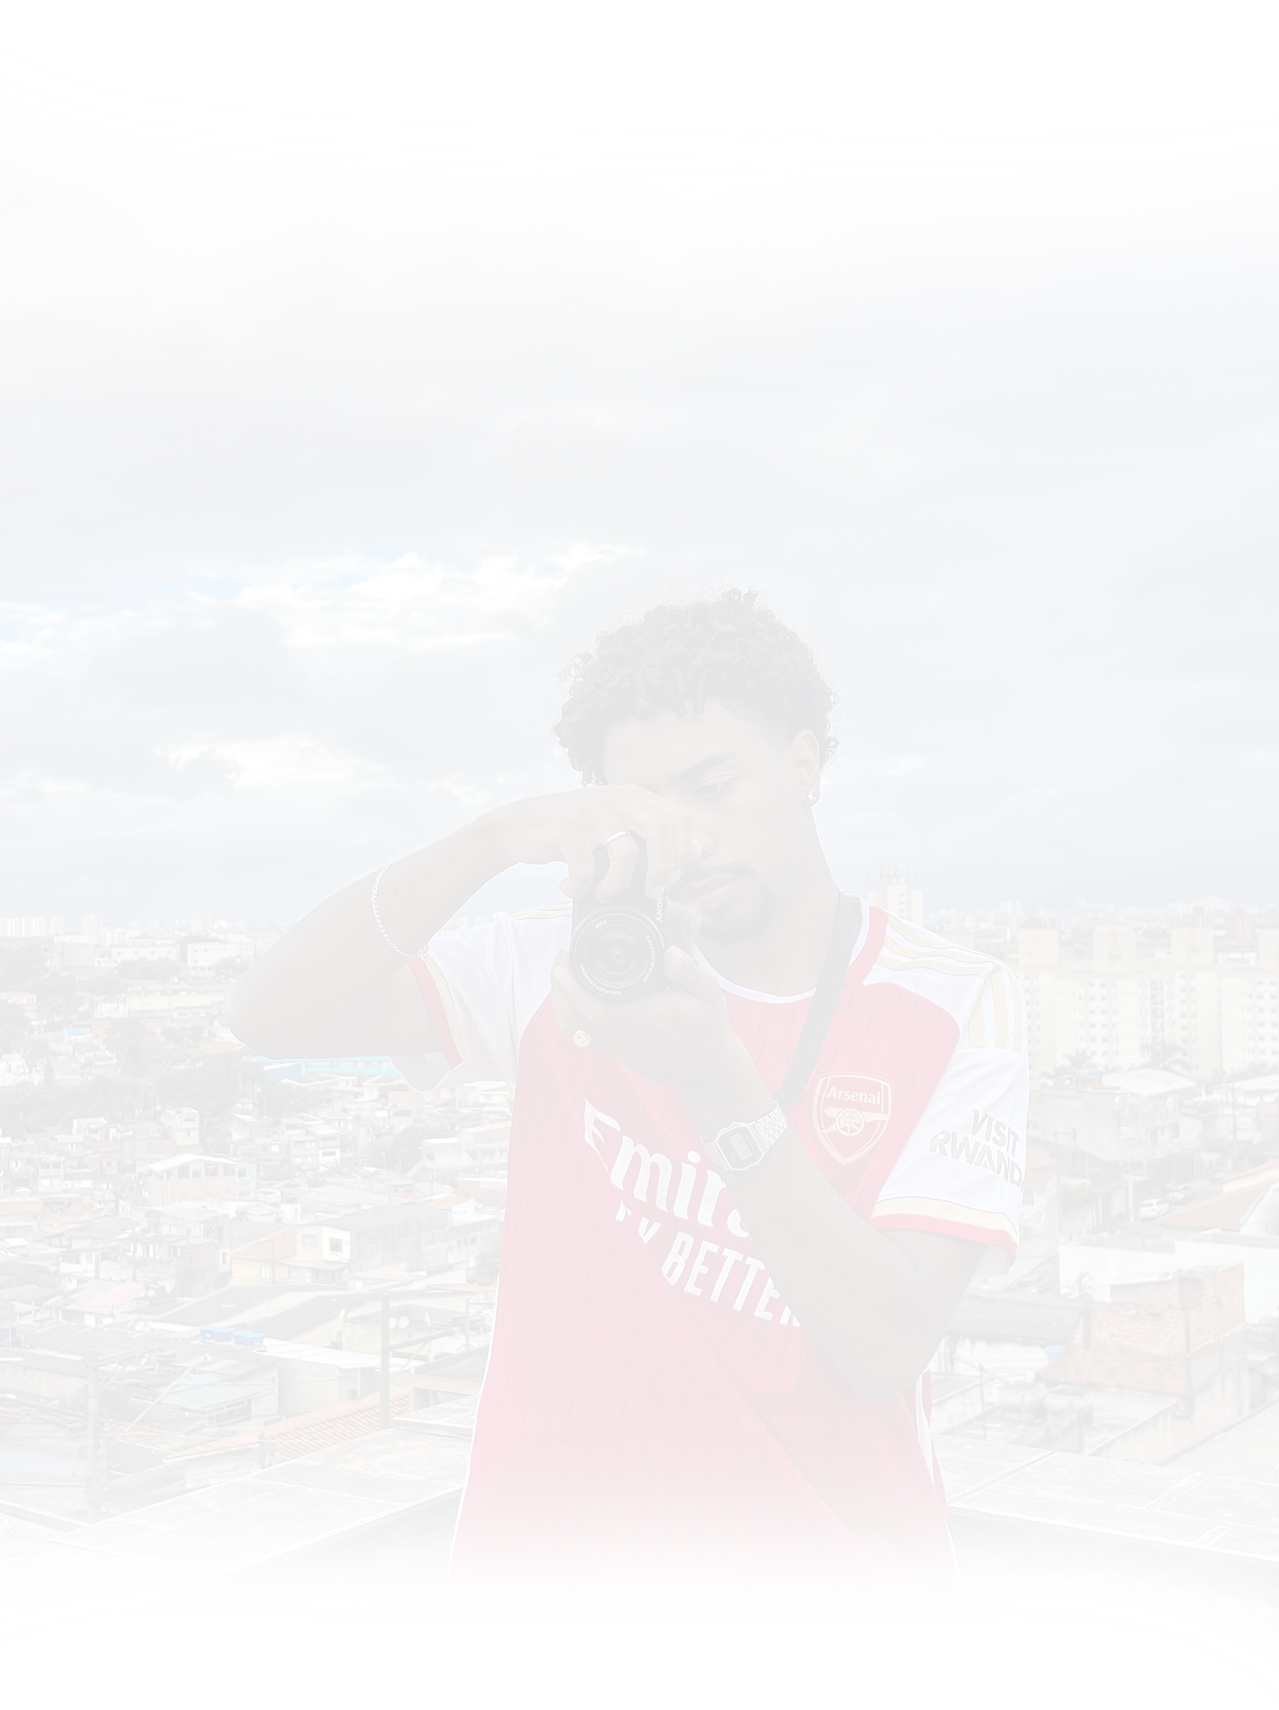
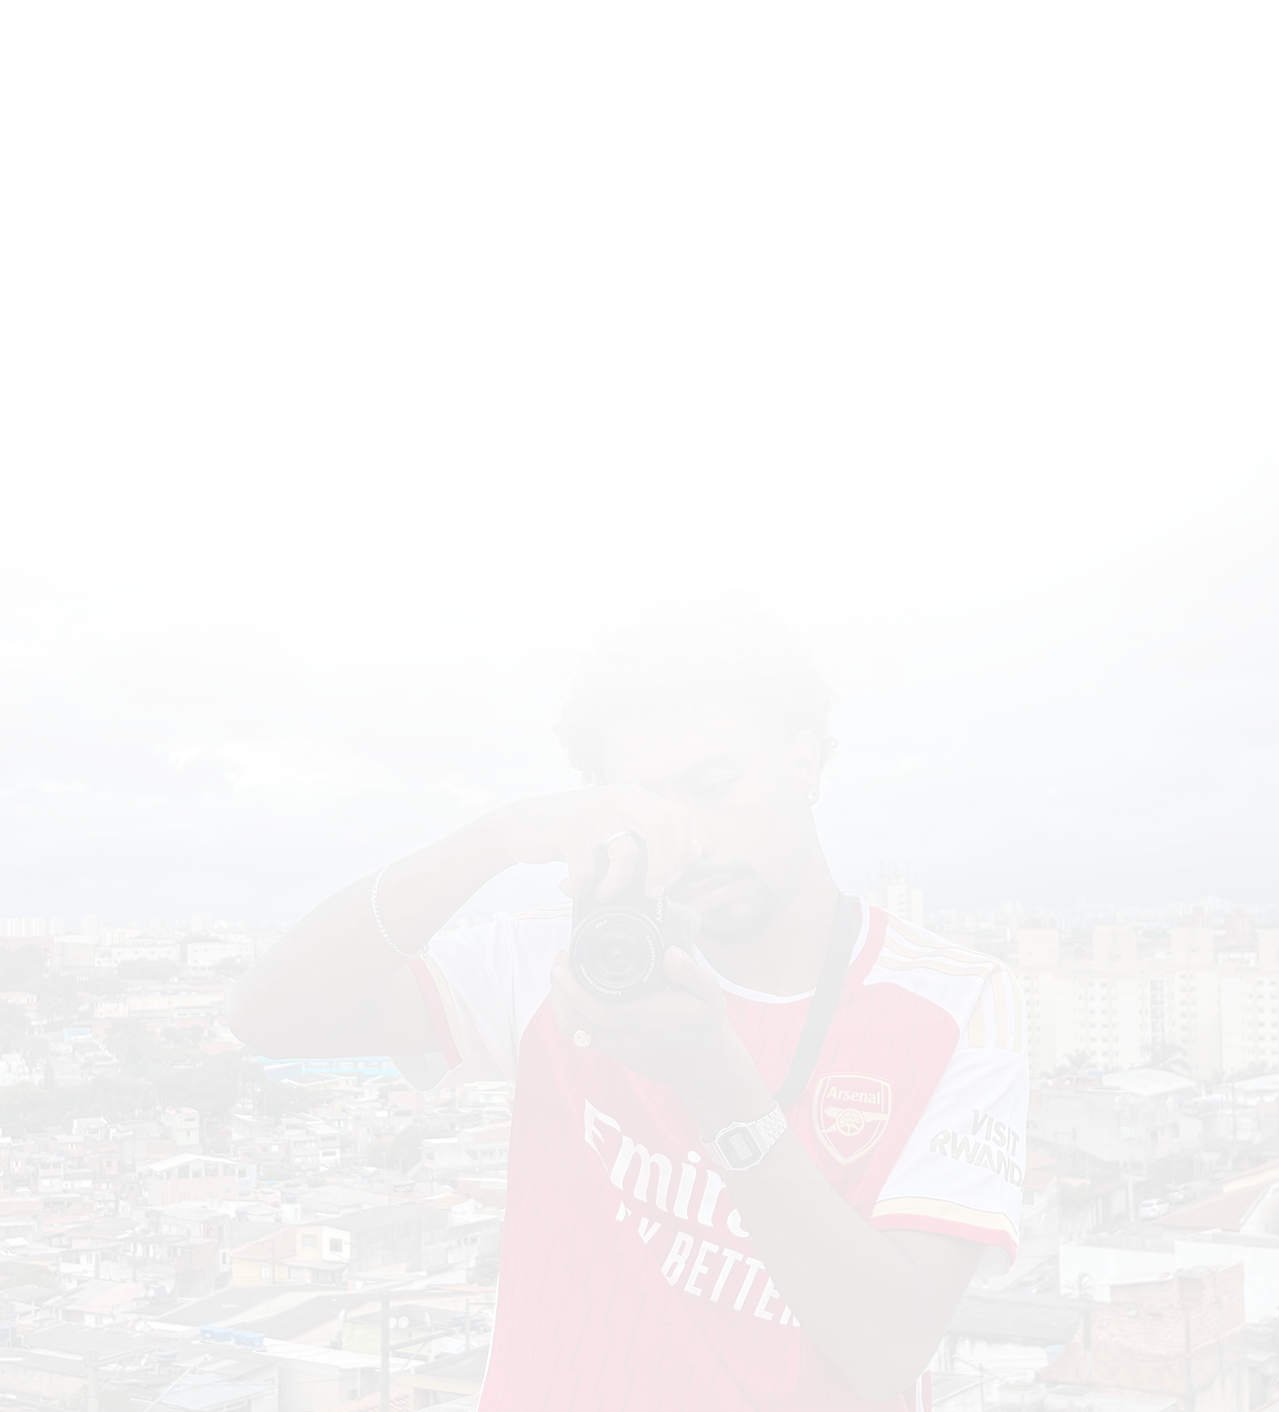
fix: change images

Changed region(s): [[0.3659, 0.9348, 0.7318, 1.0], [0.4269, 0.3428, 0.6403, 0.4674], [0.1525, 0.9348, 0.183, 0.966]]

diff --git a/src/data/NavItems.tsx b/src/data/NavItems.tsx
@@ -10,25 +10,25 @@ export const navitems = [
             {
                 title: 'Captação',
                 description: 'Da energia do palco à narrativa de um clipe, capturo a essência de cada performance musical com qualidade cinematográfica.',
-                image: '/capas/areas/captacao.png',
+                image: '/capas/areas/captacao.jpeg',
                 href: 'captacao'
             },
             {
                 title: 'Clipes',
                 description: 'Da energia do palco à narrativa de um clipe, capturo a essência de cada performance musical com qualidade cinematográfica.',
-                image: '/capas/areas/captacao.png',
+                image: '/capas/areas/clipe.jpeg',
                 href: 'clipes'
             },
             {
                 title: 'Fotografia',
                 description: 'Da energia do palco à narrativa de um clipe, capturo a essência de cada performance musical com qualidade cinematográfica.',
-                image: '/capas/areas/captacao.png',
+                image: '/capas/areas/foto.jpeg',
                 href: 'fotografia'
             },
             {
                 title: 'Real Time',
                 description: 'Da energia do palco à narrativa de um clipe, capturo a essência de cada performance musical com qualidade cinematográfica.',
-                image: '/capas/areas/captacao.png',
+                image: '/capas/areas/realtime.png',
                 href: 'realtime'
             },
         ]

diff --git a/src/app/page.tsx b/src/app/page.tsx
@@ -9,21 +9,28 @@ import Projects from "@/components/Projects";
 export default function Home() {
   return (
     // A div principal continua como está
-    <div className="flex justify-center items-center flex-col">
-      <Navigation />
-      <Hero />
+    <div className="flex justify-center items-center flex-col" >
+
+      <div
+        className="w-full bg-transparent bg-[url('/fundos/breno-hero.png')] bg-contain bg-no-repeat bg-center"
+      >
+
+        <Navigation />
+        <Hero />
+        <SobreMim id="sobre-mim" />
+
+      </div>
 
       {/* Novo contêiner para o wallpaper */}
-      <div 
-        className="w-full bg-[url('/fundos/breno-projects.png')] bg-cover bg-center "
+      <div
+        className="w-full bg-[url('/fundos/breno-projects.png')]  bg-no-repeat bg-cover bg-bottom"
       >
-        <SobreMim id="sobre-mim" />
         <Projects id="projects" />
         {/* <Gallery id="gallery" /> */}
         <Contact id="contact" />
       </div>
-
       <Footer id="footer" />
+
     </div>
   );
 }

diff --git a/src/components/Contact.tsx b/src/components/Contact.tsx
@@ -32,11 +32,11 @@ const Contact = ({id}: ContactProps) => {
   return (
     <section 
       id={id} 
-      className='scroll-mt-24 w-full min-h-screen flex flex-col gap-10 px-6 sm:px-12 md:px-20 lg:px-28 py-12'
+      className='scroll-mt-24 w-full min-h-screen flex flex-col gap-10 px-6 sm:px-12 md:px-20 lg:px-28 pt-12 items-center'
     >
       <h1 className='text-3xl md:text-4xl font-bold'>Contato</h1>
 
-      <div className='grid grid-cols-1 lg:grid-cols-2 gap-12 max-w-6xl'>
+      <div className='grid grid-cols-1 lg:grid-cols-2 gap-12 max-w-6xl pt-20'>
         {/* Formulário */}
         <div className='space-y-6'>
           <div>

diff --git a/src/components/Hero.tsx b/src/components/Hero.tsx
@@ -5,7 +5,7 @@ import React from 'react';
 
 const Hero = () => {
     return (
-        <main className="w-full h-screen flex items-center justify-center bg-[url('/fundos/breno-hero.png')] bg-no-repeat bg-center bg-contain">
+        <main className="w-full h-screen flex items-center justify-center">
             {/* Adicionado padding horizontal (px-6) para telas pequenas */}
             <div className="flex flex-col items-start cursor-default px-6">
                 {/* Fonte menor em telas pequenas, maior em telas grandes */}
